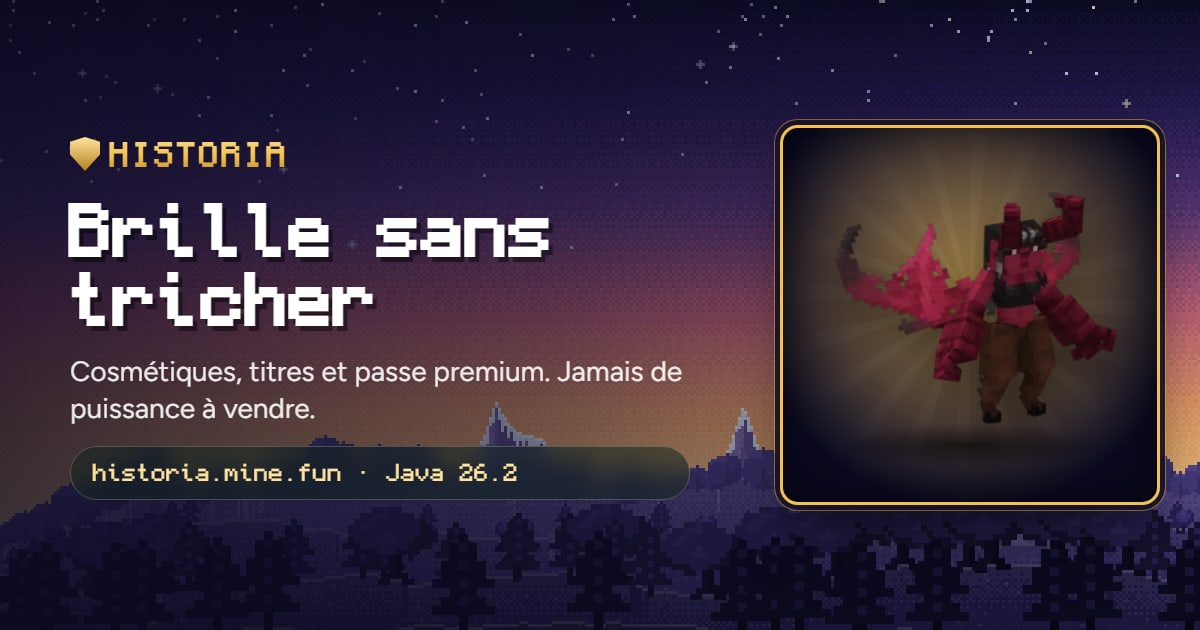
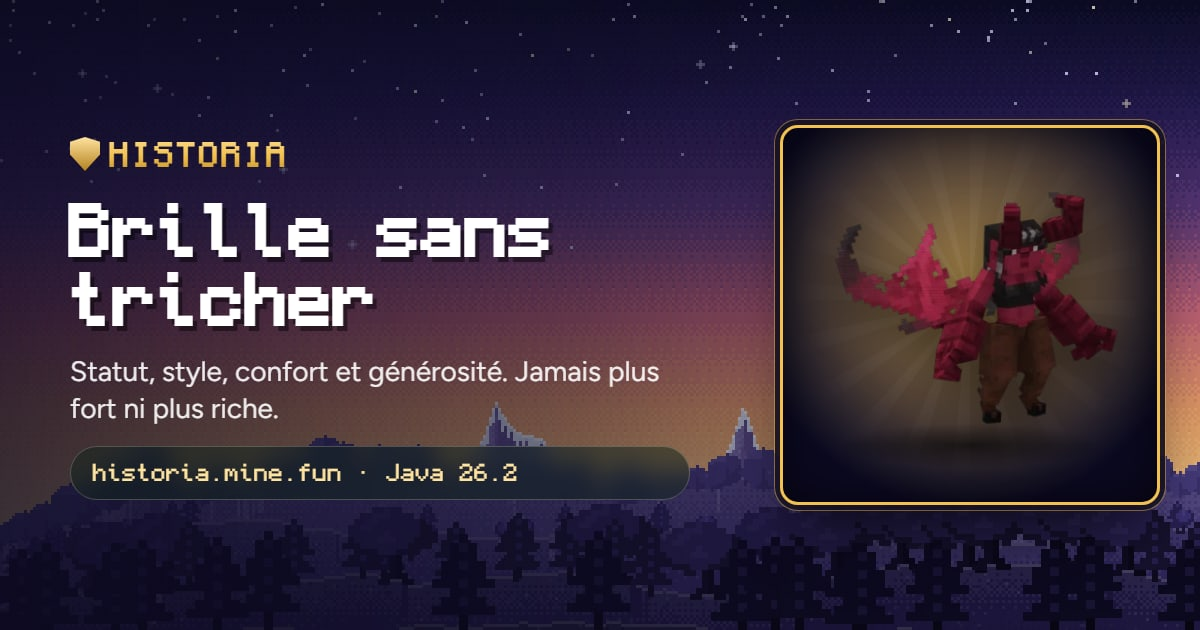
Boutique alignée sur le cadre du soutien (10/10) : statut, style, confort, générosité ; légendaires et clés gagnés en jouant ; monnaie de boutique jamais convertible ; caisse de cosmétiques transparente avec achat direct ; FAQ, progression et feuille de route mises à jour

Changed region(s): [[0.0617, 0.573, 0.5858, 0.6635]]

diff --git a/boutique.html b/boutique.html
@@ -3,12 +3,12 @@
 <head>
 <meta charset="utf-8">
 <meta name="viewport" content="width=device-width, initial-scale=1">
-<title>Boutique cosmétique (bientôt) · Historia</title>
-<meta name="description" content="La boutique d'Historia ouvrira avec le serveur : uniquement des cosmétiques, des titres et la piste premium du passe. Aucun achat ne donne de puissance.">
+<title>Boutique de soutien (bientôt) · Historia</title>
+<meta name="description" content="Soutenir Historia : du statut, du style, du confort et un bonus pour tout le serveur. Aucun achat ne rend plus fort ni plus riche.">
 <meta property="og:type" content="website">
 <meta property="og:site_name" content="Historia">
-<meta property="og:title" content="Boutique cosmétique (bientôt) · Historia">
-<meta property="og:description" content="La boutique d'Historia ouvrira avec le serveur : uniquement des cosmétiques, des titres et la piste premium du passe. Aucun achat ne donne de puissance.">
+<meta property="og:title" content="Boutique de soutien (bientôt) · Historia">
+<meta property="og:description" content="Soutenir Historia : du statut, du style, du confort et un bonus pour tout le serveur. Aucun achat ne rend plus fort ni plus riche.">
 <meta property="og:image" content="https://antaooo.github.io/historia-site/img/partage/boutique.jpg">
 <meta property="og:url" content="https://antaooo.github.io/historia-site/boutique.html">
 <meta property="og:image:width" content="1200">
@@ -26,8 +26,8 @@
 <link rel="preconnect" href="https://api.mcsrvstat.us" crossorigin>
 <link rel="canonical" href="https://antaooo.github.io/historia-site/boutique.html">
 <meta property="og:locale" content="fr_FR">
-<meta name="twitter:title" content="Boutique cosmétique (bientôt) · Historia">
-<meta name="twitter:description" content="La boutique d'Historia ouvrira avec le serveur : uniquement des cosmétiques, des titres et la piste premium du passe. Aucun achat ne donne de puissance.">
+<meta name="twitter:title" content="Boutique de soutien (bientôt) · Historia">
+<meta name="twitter:description" content="Soutenir Historia : du statut, du style, du confort et un bonus pour tout le serveur. Aucun achat ne rend plus fort ni plus riche.">
 <meta name="twitter:image" content="https://antaooo.github.io/historia-site/img/partage/boutique.jpg">
 <script type="application/ld+json">{"@context":"https://schema.org","@type":"BreadcrumbList","itemListElement":[{"@type":"ListItem","position":1,"name":"Accueil","item":"https://antaooo.github.io/historia-site/"},{"@type":"ListItem","position":2,"name":"Boutique","item":"https://antaooo.github.io/historia-site/boutique.html"}]}</script>
 <!-- /seo -->
@@ -54,7 +54,7 @@
     <div class="conteneur bandeau-contenu">
       <p class="numero">Boutique · bientôt</p>
       <h1 class="h1-page">Brille sans tricher</h1>
-      <p class="sous-texte">La boutique ouvrira avec le serveur. On n'y vendra que de l'apparence : cosmétiques, titres et piste premium du passe. Jamais de puissance.</p>
+      <p class="sous-texte">La boutique ouvrira avec le serveur. Soutenir Historia, c'est gagner du statut, du style et du confort, et faire profiter tout le serveur. Jamais de puissance.</p>
       <span class="etiquette">Rien n'est encore en vente</span>
     </div>
   </section>
@@ -65,36 +65,37 @@
       <div class="principes carte-verre" id="principes">
         <h2 class="h2-petit">Notre promesse</h2>
         <ul>
-          <li><b>Aucun achat ne donne de puissance.</b> Pas d'armes, pas de ressources, pas de bonus d'expérience à vendre.</li>
-          <li><b>Tout ce qui compte s'obtient en jouant</b> : équipement, rangs, compagnons de combat, monnaie.</li>
-          <li><b>Pas de caisses payantes</b> ni de tirage au hasard contre de l'argent.</li>
+          <li><b>Aucun achat ne rend plus fort ni plus riche.</b> Ni arme, ni ressource, ni monnaie du jeu, ni bonus d'expérience personnel.</li>
+          <li><b>Les objets légendaires et leurs clés se gagnent uniquement en jouant</b>, comme l'équipement, les rangs et la monnaie.</li>
+          <li><b>La monnaie de la boutique n'achète que du style et du confort.</b> Elle ne se convertit jamais en monnaie du jeu et ne s'échange pas entre joueurs.</li>
+          <li><b>Caisse de cosmétiques transparente</b> : son contenu et ses chances sont affichés, et chaque objet s'achète aussi directement.</li>
           <li>Conforme aux règles d'usage commerciales de Minecraft.</li>
         </ul>
       </div>
       <div class="offres">
-        <article class="carte-verre offre" id="passe">
+        <article class="carte-verre offre" id="statut">
+          <div class="offre-image" data-offre-theme="cimes"><span class="offre-bientot">Bientôt</span></div>
+          <h2 class="h2-petit">Du statut</h2>
+          <p>Un titre et une couleur dans le chat et le tableau des joueurs, ton nom sur le mur des mécènes de la capitale, ta bannière à la Guilde des héros, et ta voix pour choisir le thème de la saison suivante.</p>
+          <p class="offre-titres" aria-label="Exemples de titres"><span>« Mécène »</span><span>« Fondateur »</span></p><p class="note">« Fondateur » sera réservé aux premiers soutiens.</p>
+        </article>
+        <article class="carte-verre offre" id="style">
           <div class="offre-image" data-offre-theme="sakuras"><span class="offre-bientot">Bientôt</span></div>
-          <h2 class="h2-petit">La piste premium du passe</h2>
-          <p>Le passe d'aventure a deux pistes. La gratuite reste utile à tous ; la premium ajoute des récompenses d'apparence à chaque palier.</p>
+          <h2 class="h2-petit">Du style</h2>
+          <p>Une autre allure pour tes objets légendaires (mêmes effets), des tenues, des chapeaux, des particules, et des apparences pour tes compagnons et tes montures. Par la piste premium du passe, la caisse de cosmétiques ou en achat direct.</p>
           <img class="offre-capture" src="img/captures/passe.png" alt="Maquette des menus du passe d'aventure" loading="lazy">
         </article>
-        <article class="carte-verre offre" id="titres">
-          <div class="offre-image" data-offre-theme="cimes"><span class="offre-bientot">Bientôt</span></div>
-          <h2 class="h2-petit">Des titres</h2>
-          <p>Un titre s'affiche à côté de ton nom, dans le chat et dans le tableau des joueurs. Pour la frime, rien de plus.</p>
-          <p class="offre-titres" aria-label="Exemples de titres"><span>« l'Intrépide »</span><span>« Ami des elfes »</span><span>« Chasseur d'aurores »</span></p><p class="note">Exemples, la liste n'est pas arrêtée.</p>
-        </article>
-        <article class="carte-verre offre" id="effets">
-          <div class="offre-image" data-offre-theme="crepuscule"><span class="offre-bientot">Bientôt</span></div>
-          <h2 class="h2-petit">Des effets visuels</h2>
-          <p>Particules autour de toi, traînées derrière tes pas, éclats à la victoire : de quoi briller sans rien changer aux combats.</p>
-          <p class="offre-etincelles" aria-hidden="true"><i></i><i></i><i></i><i></i><i></i><i></i></p>
-        </article>
-        <article class="carte-verre offre" id="apparences">
+        <article class="carte-verre offre" id="confort">
           <div class="offre-image" data-offre-theme="lunaire"><span class="offre-bientot">Bientôt</span></div>
-          <h2 class="h2-petit">Des apparences</h2>
-          <p>Chapeaux, capes de cérémonie et apparences alternatives pour tes compagnons : ton style, ta légende.</p>
+          <h2 class="h2-petit">Du confort</h2>
+          <p>Plus de points de téléportation personnels, un coffre virtuel en plus, un établi portable, une attente de téléportation plus courte et une place réservée quand le serveur est plein.</p>
           
+        </article>
+        <article class="carte-verre offre" id="generosite">
+          <div class="offre-image" data-offre-theme="crepuscule"><span class="offre-bientot">Bientôt</span></div>
+          <h2 class="h2-petit">De la générosité</h2>
+          <p>Chaque soutien offre un bonus à tout le serveur pendant une heure, par exemple plus d'expérience de métier pour tout le monde, avec un merci annoncé à tous.</p>
+          <p class="offre-etincelles" aria-hidden="true"><i></i><i></i><i></i><i></i><i></i><i></i></p>
         </article>
       </div>
       <div class="carte-verre boutique-fin">

diff --git a/feuille-de-route.html b/feuille-de-route.html
@@ -107,7 +107,7 @@
           <div class="carte-verre">
             <p class="route-statut">À venir</p>
             <h2 class="h2-petit">Étape 6 · Saisons et monde vivant</h2>
-            <ul><li>Un passe de saison : la piste gratuite reste utile, la piste premium est uniquement cosmétique.</li><li>Des quêtes de saison et des quêtes courtes à refaire.</li><li>Des événements à l'étude, et une boutique limitée aux cosmétiques, aux titres et au passe premium : aucun achat ne donne de puissance.</li></ul>
+            <ul><li>Un passe de saison : la piste gratuite reste utile, la piste premium est uniquement cosmétique.</li><li>Des quêtes de saison et des quêtes courtes à refaire.</li><li>Des événements à l'étude, et une boutique de soutien : du statut, du style, du confort et un bonus pour tout le serveur. Aucun achat ne rend plus fort ni plus riche.</li></ul>
           </div>
         </li>
         <li class="route-etape route-a-venir">

diff --git a/progression.html b/progression.html
@@ -139,7 +139,7 @@
       <div class="trois-col">
         <article class="carte-verre"><h3>Deux monnaies</h3><p>La monnaie courante se gagne avec les métiers, les quêtes et les votes. La monnaie d'exploit ne s'obtient qu'au combat difficile : boss, donjons, Tour.</p></article>
         <article class="carte-verre"><h3>Raffinage</h3><p>Chaque objet légendaire est lié à un métier. Seul le talent de raffinage de ce métier permet de le faire monter, jusqu'à 5 étoiles.</p></article>
-        <article class="carte-verre"><h3>Rien ne s'achète</h3><p>La puissance se gagne en jouant. La boutique ne vend que des cosmétiques, des titres et la piste premium du passe.</p></article>
+        <article class="carte-verre"><h3>Rien ne s'achète</h3><p>La puissance et la richesse se gagnent en jouant. La boutique n'offre que du statut, du style et du confort, et un bonus pour tout le serveur.</p></article>
       </div>
     </div>
   </section>
